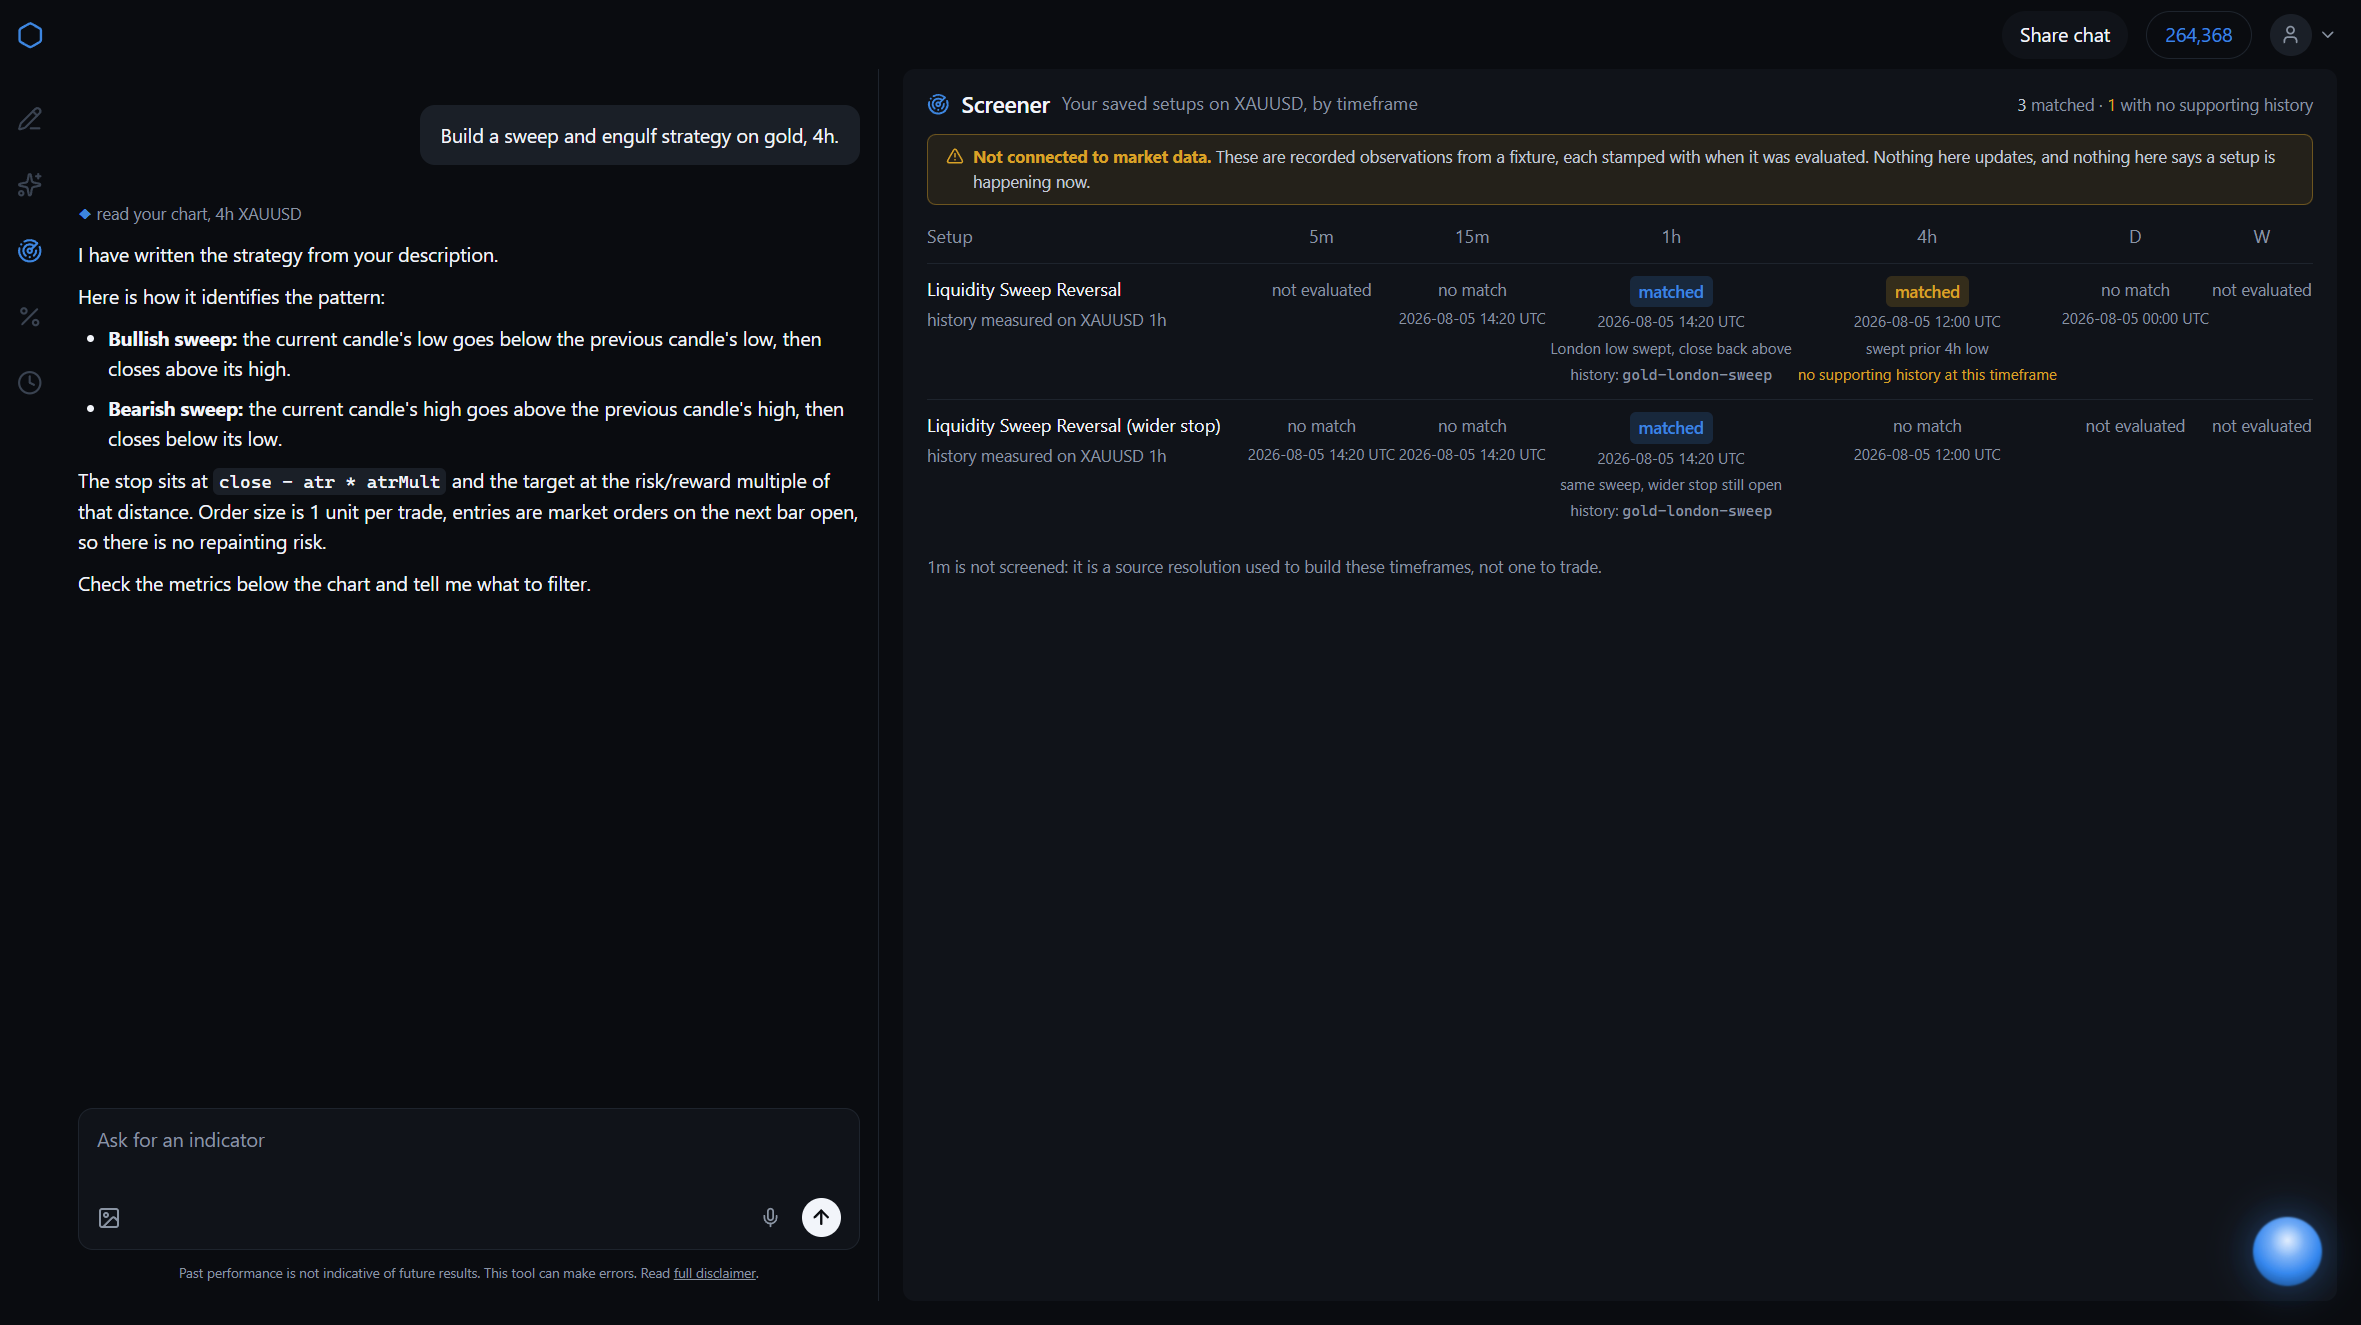
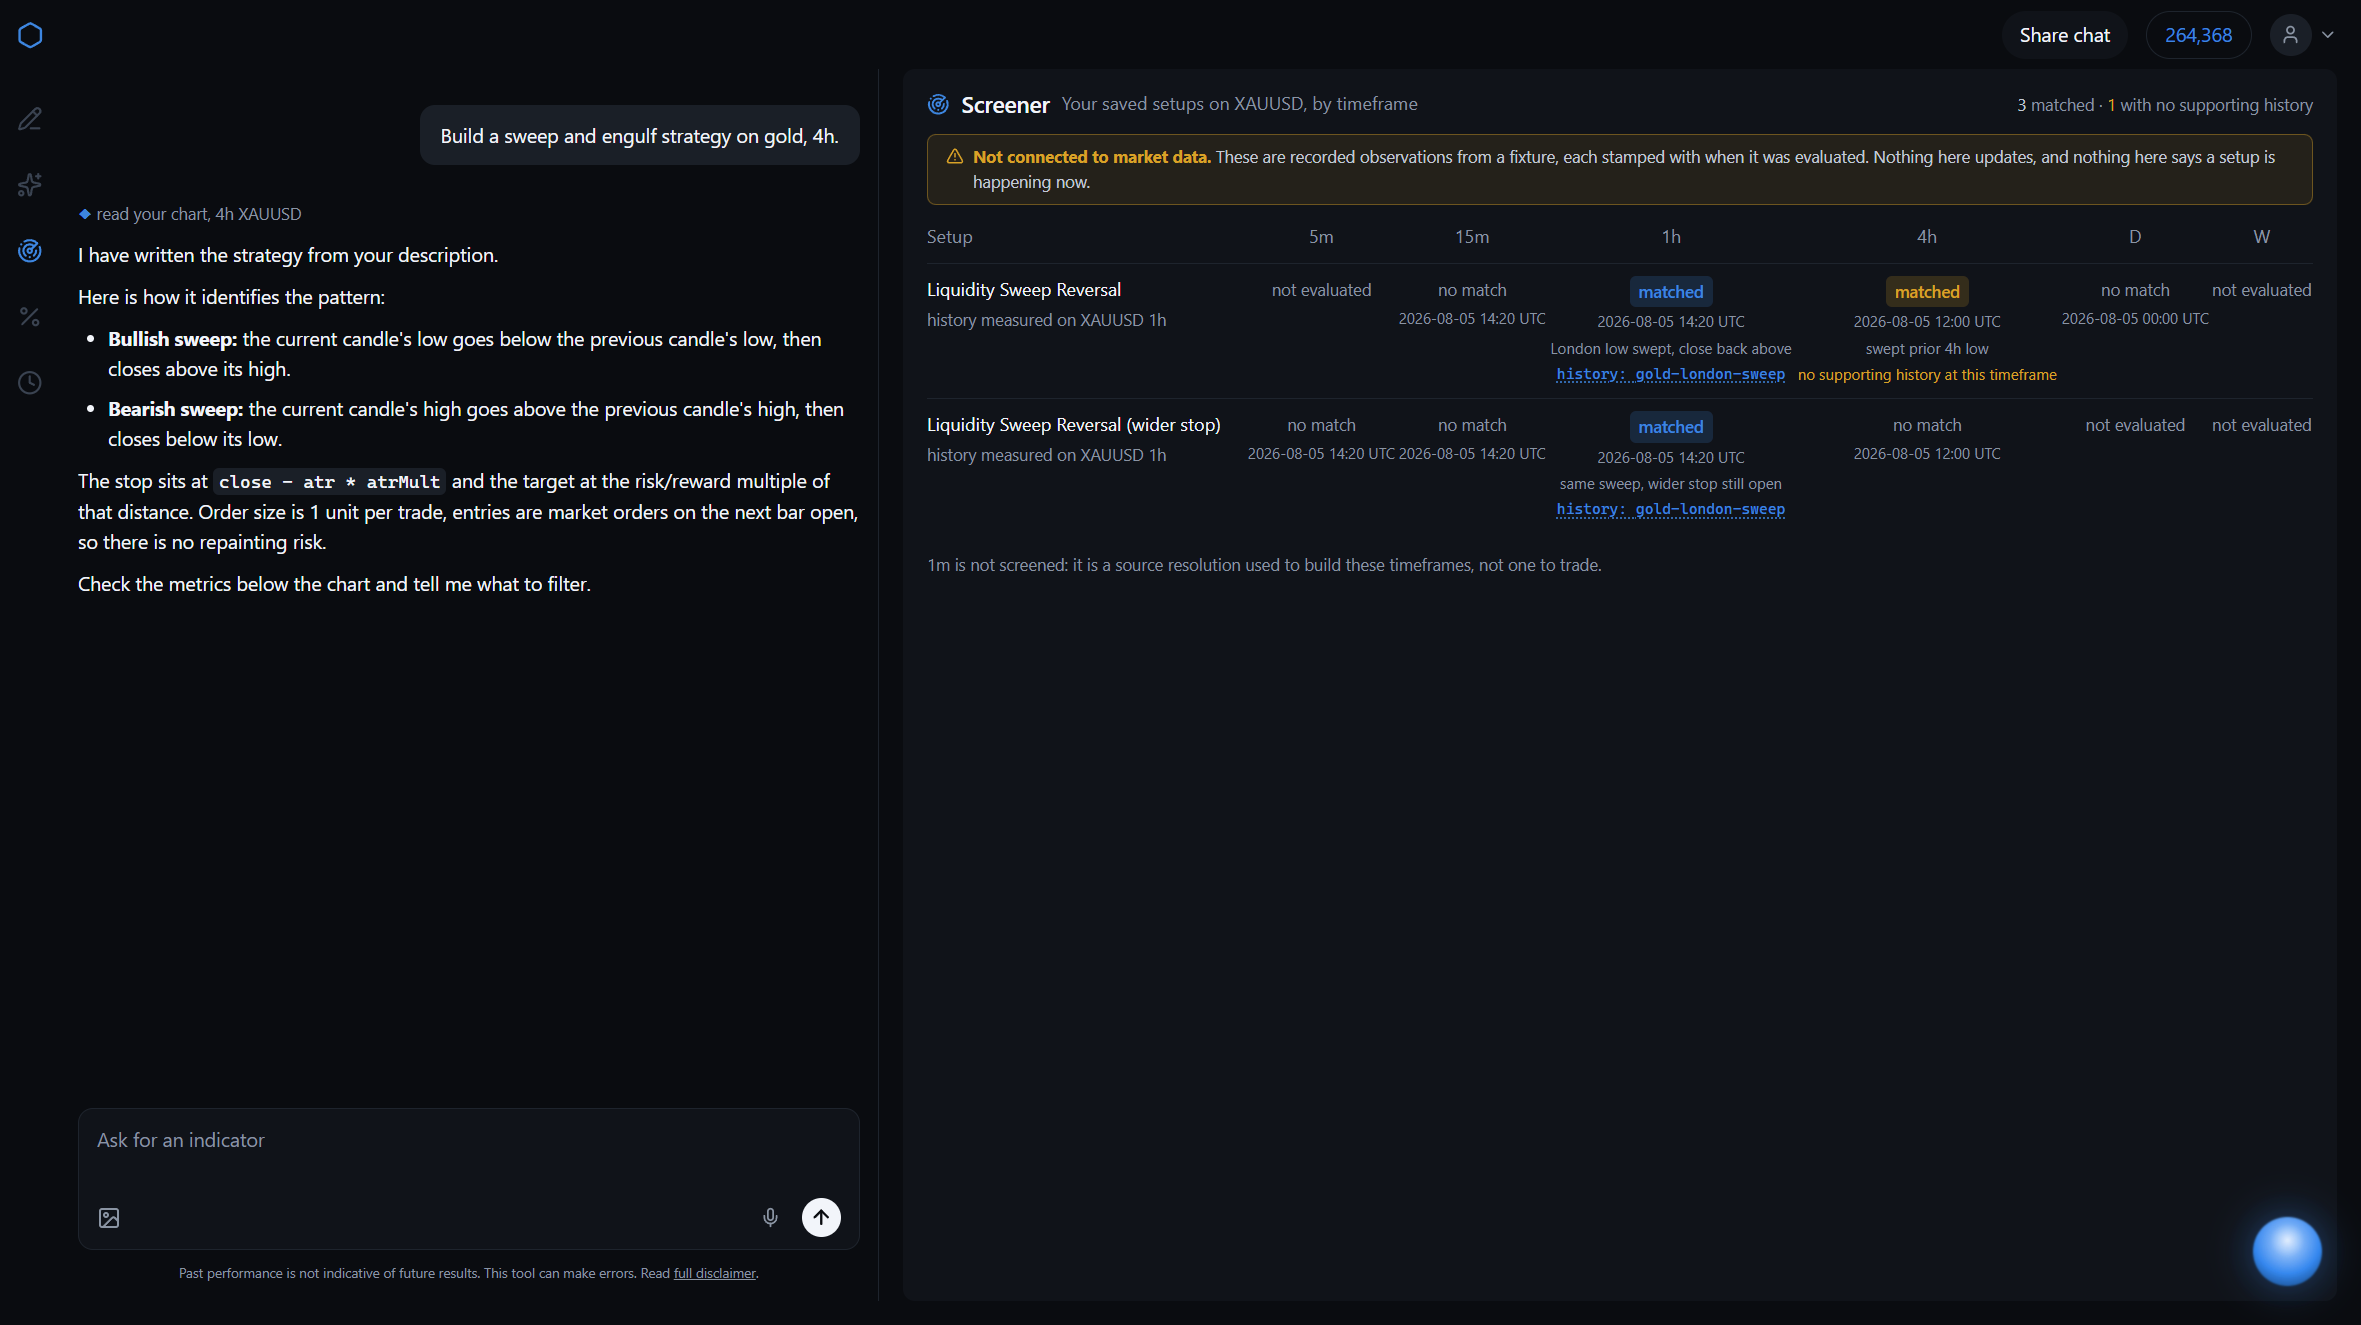
Greptile round 1: the evidence handoff was inert
The docs and the PR body both said a matched setup "links to" its Conditional
Rates evidence. It did not. The support rendered as nested span text — not
focusable, not clickable — and opening the rates panel by hand landed on its
default report. The capability was asserted in prose and absent from the build,
which is this build's defect class one level up: the documentation describing
the feature was the label that moved without its data.

It is a real control now. Clicking it sets the report the rates panel opens on,
and the panel follows a later handoff too, so arriving twice on different
reports does not leave the first one showing.

New row: evidence handoff opens that report. Mutated so the report id is not
passed through, it lands on rates-report-ib-breakout — exactly what the reviewer
observed by hand.

Sweep 40/40, reflow PASS at 1440 and 1280. Palette 20/20, tsc and build clean,
parity sheets regenerated.

diff --git a/src/components/SetupScreener.tsx b/src/components/SetupScreener.tsx
@@ -24,7 +24,18 @@ import {
  * notice is not dismissible — an actionable page that looks live while showing
  * stale state is the most misleading surface this build could ship.
  */
-export default function SetupScreener({ symbol, runs }: { symbol: string; runs: SavedRun[] }) {
+export default function SetupScreener({
+  symbol,
+  runs,
+  onOpenEvidence,
+}: {
+  symbol: string;
+  runs: SavedRun[];
+  /** Opens the Conditional Rates panel ON the cited report. The support used to
+   *  be inert text while the docs claimed the cell "links to" its evidence — a
+   *  capability asserted in prose and absent from the code. */
+  onOpenEvidence: (reportId: string) => void;
+}) {
   const rows = useMemo(() => screenRowsFor(symbol, runs), [symbol, runs]);
   const matches = matchCount(rows);
   const unsupported = unsupportedMatchCount(rows);
@@ -99,7 +110,7 @@ export default function SetupScreener({ symbol, runs }: { symbol: string; runs: 
             </thead>
             <tbody>
               {rows.map((r) => (
-                <Row key={r.runId} row={r} />
+                <Row key={r.runId} row={r} onOpenEvidence={onOpenEvidence} />
               ))}
             </tbody>
           </table>
@@ -116,7 +127,7 @@ export default function SetupScreener({ symbol, runs }: { symbol: string; runs: 
   );
 }
 
-function Row({ row }: { row: ScreenRow }) {
+function Row({ row, onOpenEvidence }: { row: ScreenRow; onOpenEvidence: (id: string) => void }) {
   return (
     <tr className="border-t border-border align-top">
       <td className="py-2 pr-3">
@@ -128,14 +139,14 @@ function Row({ row }: { row: ScreenRow }) {
       </td>
       {row.cells.map((c) => (
         <td key={c.timeframe} className="py-2 text-center" data-apollo-id={`screener-cell-${row.runId}-${c.timeframe}`}>
-          <CellView cell={c} />
+          <CellView cell={c} onOpenEvidence={onOpenEvidence} />
         </td>
       ))}
     </tr>
   );
 }
 
-function CellView({ cell }: { cell: ScreenCell }) {
+function CellView({ cell, onOpenEvidence }: { cell: ScreenCell; onOpenEvidence: (id: string) => void }) {
   if (cell.state === "not-evaluated")
     return (
       <span className="text-[11px] text-text-muted" title={cell.reason ?? undefined}>
@@ -166,9 +177,14 @@ function CellView({ cell }: { cell: ScreenCell }) {
       <span className="text-[10px] text-text-muted">{cell.evaluatedAt}</span>
       {cell.note && <span className="text-[10px] text-text-muted">{cell.note}</span>}
       {cell.supportReportId ? (
-        <span className="text-[10px] text-text-muted">
-          history: <span className="font-mono">{cell.supportReportId}</span>
-        </span>
+        <button
+          data-apollo-id={`screener-evidence-${cell.supportReportId}`}
+          onClick={() => onOpenEvidence(cell.supportReportId!)}
+          title="Open this setup's conditional rates"
+          className="font-mono text-[10px] text-accent underline decoration-dotted underline-offset-2 hover:text-text-primary"
+        >
+          history: {cell.supportReportId}
+        </button>
       ) : (
         // The rule that ties the two tabs together. A trigger with nothing
         // behind it is labelled, not quietly shown like the supported ones.

diff --git a/src/App.tsx b/src/App.tsx
@@ -71,6 +71,8 @@ export default function App() {
   // Which pane the right-hand side is showing. The rail drives it; "workspace"
   // is the chart/code/backtest surface.
   const [pane, setPane] = useState<Pane>("workspace");
+  // Which report the rates panel should open on when the Screener hands off.
+  const [evidenceReport, setEvidenceReport] = useState<string | null>(null);
   // The chart the cockpit is showing. Owned here because two panes read it: the
   // workspace renders it, and the Screener's chart-linked scope claims to follow
   // it. Held in Workspace, that claim was a label over a constant.
@@ -166,11 +168,18 @@ export default function App() {
           <div className="min-h-0 min-w-0 flex-1 pl-4">
             {pane === "screener" ? (
               <section className="flex h-full min-h-0 flex-col overflow-hidden rounded-lg bg-bg-panel">
-                <SetupScreener symbol={symbol} runs={runs} />
+                <SetupScreener
+                  symbol={symbol}
+                  runs={runs}
+                  onOpenEvidence={(id) => {
+                    setEvidenceReport(id);
+                    setPane("rates");
+                  }}
+                />
               </section>
             ) : pane === "rates" ? (
               <section className="flex h-full min-h-0 flex-col overflow-hidden rounded-lg bg-bg-panel">
-                <ConditionalRates symbol={symbol} timeframe={timeframe} />
+                <ConditionalRates symbol={symbol} timeframe={timeframe} reportId={evidenceReport} />
               </section>
             ) : pane === "library" ? (
               <section className="flex h-full min-h-0 flex-col overflow-hidden rounded-lg bg-bg-panel">

diff --git a/src/components/ConditionalRates.tsx b/src/components/ConditionalRates.tsx
@@ -1,4 +1,4 @@
-import { useMemo, useState } from "react";
+import { useEffect, useMemo, useState } from "react";
 import { Radar } from "lucide-react";
 import { ClassFrequencyBars } from "./charts";
 import { Card, Chip, cx, Refusal } from "../ui";
@@ -27,8 +27,22 @@ import {
  * the Atlas contract prohibits that wording until calibrated status is earned,
  * and the navigation is where every screen inherits its claim from.
  */
-export default function ConditionalRates({ symbol, timeframe }: { symbol: string; timeframe: string }) {
-  const [id, setId] = useState(REPORTS[0].id);
+export default function ConditionalRates({
+  symbol,
+  timeframe,
+  reportId,
+}: {
+  symbol: string;
+  timeframe: string;
+  /** Set when the Screener hands off to a specific report's evidence. */
+  reportId?: string | null;
+}) {
+  const [id, setId] = useState(reportId ?? REPORTS[0].id);
+  // Follow a later handoff too — arriving twice on different reports must not
+  // leave the panel showing the first one.
+  useEffect(() => {
+    if (reportId) setId(reportId);
+  }, [reportId]);
   const [chartLinked, setChartLinked] = useState(false);
 
   // Chart-linked mode filters which reports are OFFERED. It never transforms a

diff --git a/docs/hot.md b/docs/hot.md
@@ -20,7 +20,8 @@ Facts that rot by construction do not belong in a hand-maintained doc. Run
 | Spec | `docs/UI-NEXT-INCREMENT.md` §18, recorded BEFORE code |
 | Card | `consumer.ui-setup-screener` — **active** |
 | plan-warden | ON PLAN WITH CORRECTIONS — five blocking, all applied |
-| Gates | sweep **39/39**, reflow PASS, palette 20/20, `tsc -b` clean, `build` clean, **all seven parity sheets regenerated** |
+| Gates | sweep **40/40**, reflow PASS, palette 20/20, `tsc -b` clean, `build` clean, **all seven parity sheets regenerated** |
+| Greptile | round 1 found **one P1, real, fixed** — the evidence handoff was inert |
 
 §16 answered *"what usually happens after this setup?"*. It could not answer *"is that setup
 happening?"* — so the cockpit held evidence and no trigger. §18 splits the surface in two.
@@ -59,7 +60,17 @@ the observation.
 
 ### The rule that ties the two tabs together
 
-**A matched setup either links to its `Conditional Rates` evidence or states that it has none.** On
+**A matched setup either links to its `Conditional Rates` evidence or states that it has none.**
+
+> **That sentence was true of the docs and false of the code, and Greptile caught it.** The support
+> rendered as nested `<span>` text: not focusable, not clickable, and opening the rates panel by
+> hand landed on its default report. **The capability was asserted in prose and absent from the
+> build** — the label-without-its-data defect, one level up, in the documentation describing the
+> feature. It is a real control now, and the row `evidence handoff opens that report` asserts the
+> panel lands on the CITED report; mutated, it lands on `rates-report-ib-breakout`, which is exactly
+> what the reviewer observed.
+
+On
 screen the supported 1h matches render in accent and name their report; the unsupported 4h match
 renders in warning and reads *"no supporting history at this timeframe"*, and the header counts it:
 `3 matched · 1 with no supporting history`. A trigger a trader cannot check is the thing this build
@@ -370,7 +381,7 @@ npx tsc -b                # clean
 npm run build             # clean
 node scripts/parity.mjs   # regenerates all seven parity sheets
 node scripts/reflow.mjs   # P6 reflow gate, 1440 + 1280, asserts and exits non-zero
-node scripts/sweep.mjs    # empty-state sweep, 39 rows, asserts and exits non-zero
+node scripts/sweep.mjs    # empty-state sweep, 40 rows, asserts and exits non-zero
 ```
 
 The last three need `npm run dev` on 5199 AND a Chrome on CDP 9333:

diff --git a/docs/HANDOFF.md b/docs/HANDOFF.md
@@ -71,7 +71,7 @@ The two browser gates need `npm run dev` on 5199 **and** a Chrome on CDP 9333:
 ```bash
 chrome --remote-debugging-port=9333 --user-data-dir=<scratch> --window-size=1920,1080
 node scripts/reflow.mjs   # 1440 + 1280, asserts, exits non-zero
-node scripts/sweep.mjs    # 39-row empty-state sweep, asserts, exits non-zero
+node scripts/sweep.mjs    # 40-row empty-state sweep, asserts, exits non-zero
 node scripts/parity.mjs   # regenerates the seven side-by-side sheets
 ```
 
